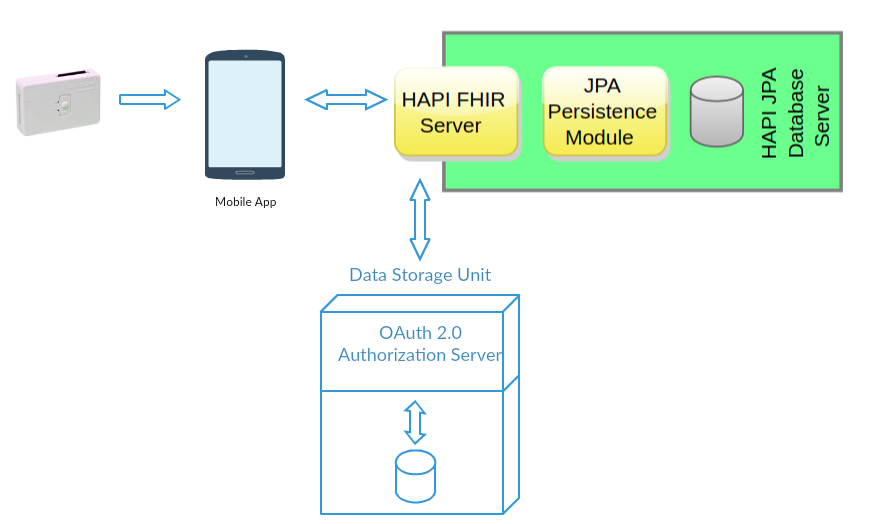
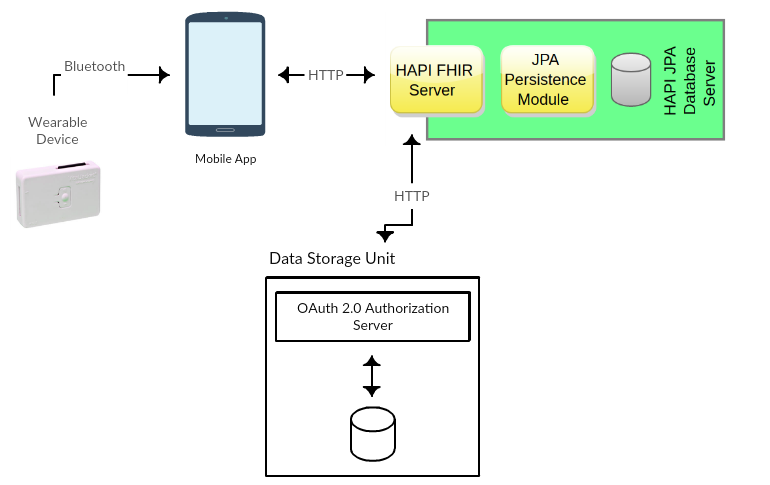
cap5 started

Changed region(s): [[0.0, 0.0, 0.9662, 0.9897], [0.0, 0.3093, 0.1558, 0.4948]]

diff --git a/chapters/chapter5.tex b/chapters/chapter5.tex
@@ -1,24 +1,38 @@
 \chapter{Arquitetura proposta}
 
 \section{Visão geral do sistema}
-\textcolor{red}{{\huge TODO}}
-//todo
+
+
+\begin{figure}[H]
+  \centering
+  \includegraphics[width=1\textwidth]{imgs/arch-product.png}
+  \caption[Arquitetura do Sistema]{Arquitetura do Sistema}
+  
+  \label{f:product-arch}
+\end{figure}
+
 %Apresentação da arquitetura do sistema global, com texto de suporte, para descrever como as partes se relacionam
+A arquitetura proposta para o sistema estará dividida em três partes. Uma delas é a parte das aplicações desenvolvidas, ou seja, a interface com o utilizador, tanto web como móvel. Estas duas aplicações comunicarão por pedidos \gls{HTTP} com o \gls{DSU} da framework do Open mHealth. A aplicação móvel ainda terá a possibilidade de se ligar ao \gls{VJ} por bluetooth para receber os dados fisiológicos da pessoa que está a efetuar a colheita.
+\par 
+Uma outra parte do sistema já referida é o backend do Open mHealth. Este backend tem um componente principal (\gls{DSU}) que dispobilizará duas \gls{REST} \gls{API} para inserção e fornecimento dos dados e ainda para autenticação e autorização. Ainda terá um componente para processar os dados recebidos. Estes dados passarão por um validador. e podem ser reencaminhados para o Vert.x por pedidos \gls{HTTP}.
+\par
+A terceira e última parte é composta pelo Vert.x, é fornecida uma \gls{API} \gls{REST} que possibilitará a receção dos dados para posterior publicação dos mesmo no EventBus.
 \section{Módulos do sistema}
 % a ideia é apresentar de forma mais detalhada os componentes que foram ilustrados na secção anterior e qual é o plano técnico para a sua implementação. Notar que a idei é escrever um plano/especificação ANTES de haver a implementação. cada uma das secções (pus aqui algumas, podem ser outras) deve rfletir um dos módulos importantes da arquitetura
 \subsection{Fundações do backend}
+Composto por um servidor de autenticação e autorização utilizando spring(citar o spring) 
 \subsection{API de integração}
 \subsection{Gestão de utilizadores e acessos}
 \subsection{Extensão com módulos personalizados}
 
 
 \section{Modelo do domínio}
-//todo
+
 % descrever as estruturas de dados que vão ser usadas (o nosso Reference information model) 
 
 \section{Proteção de dados}
 
-// todo
+
 %  como é que a arquitetura proposta contribui para a preservação de privacidade e segurança dos dados?
 
 \cleardoublepage
